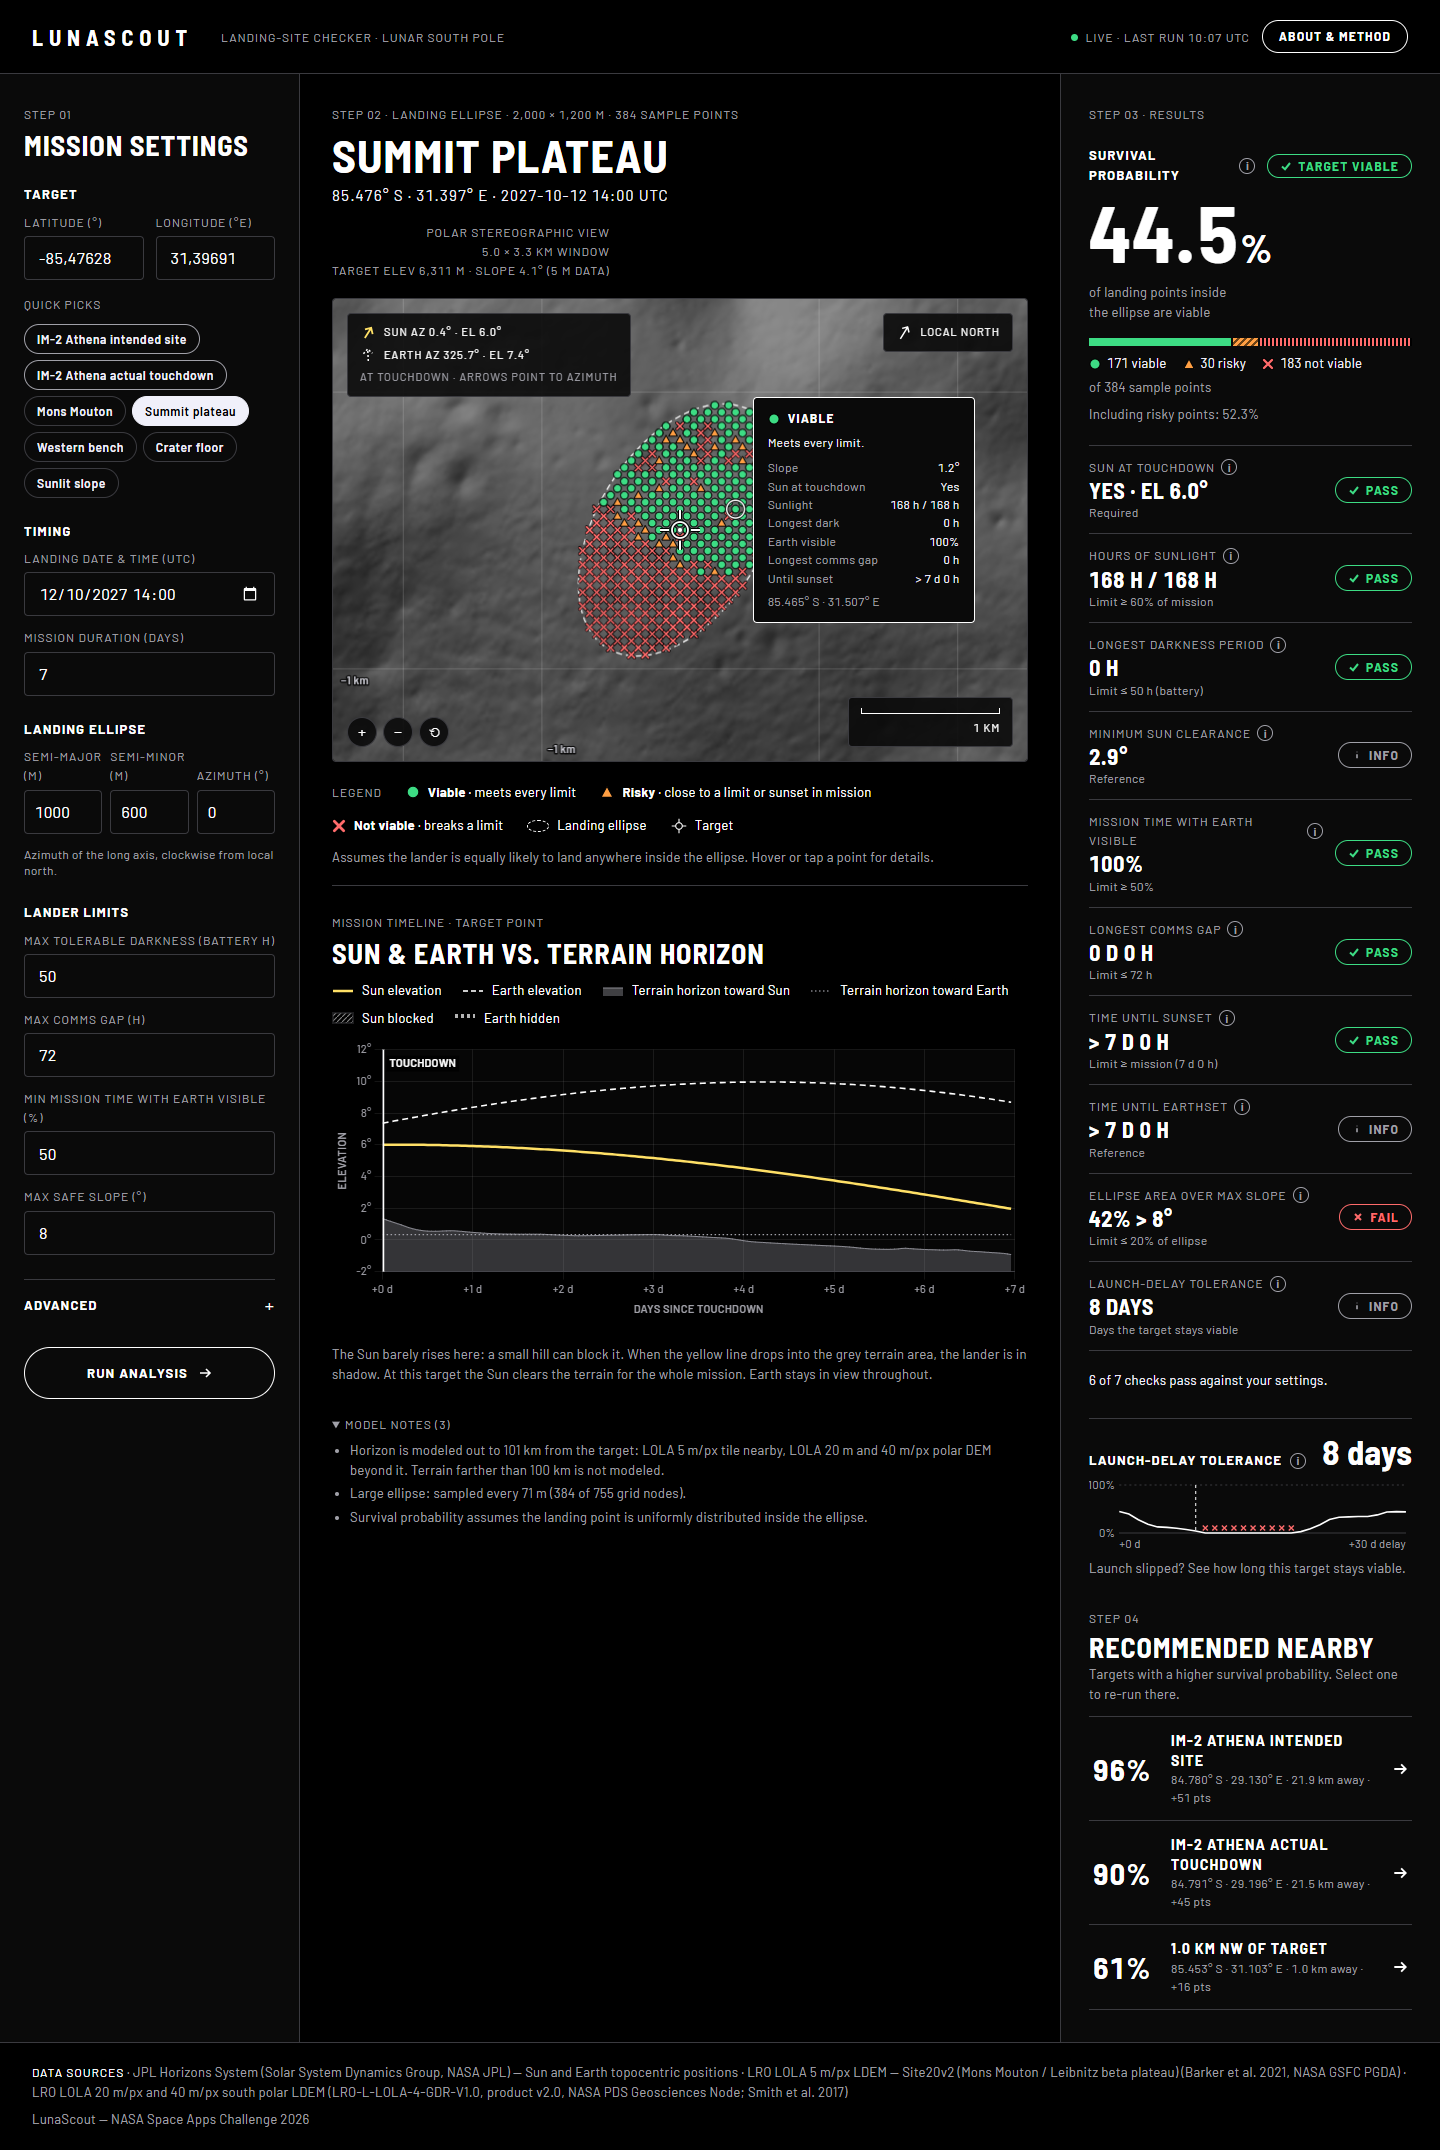
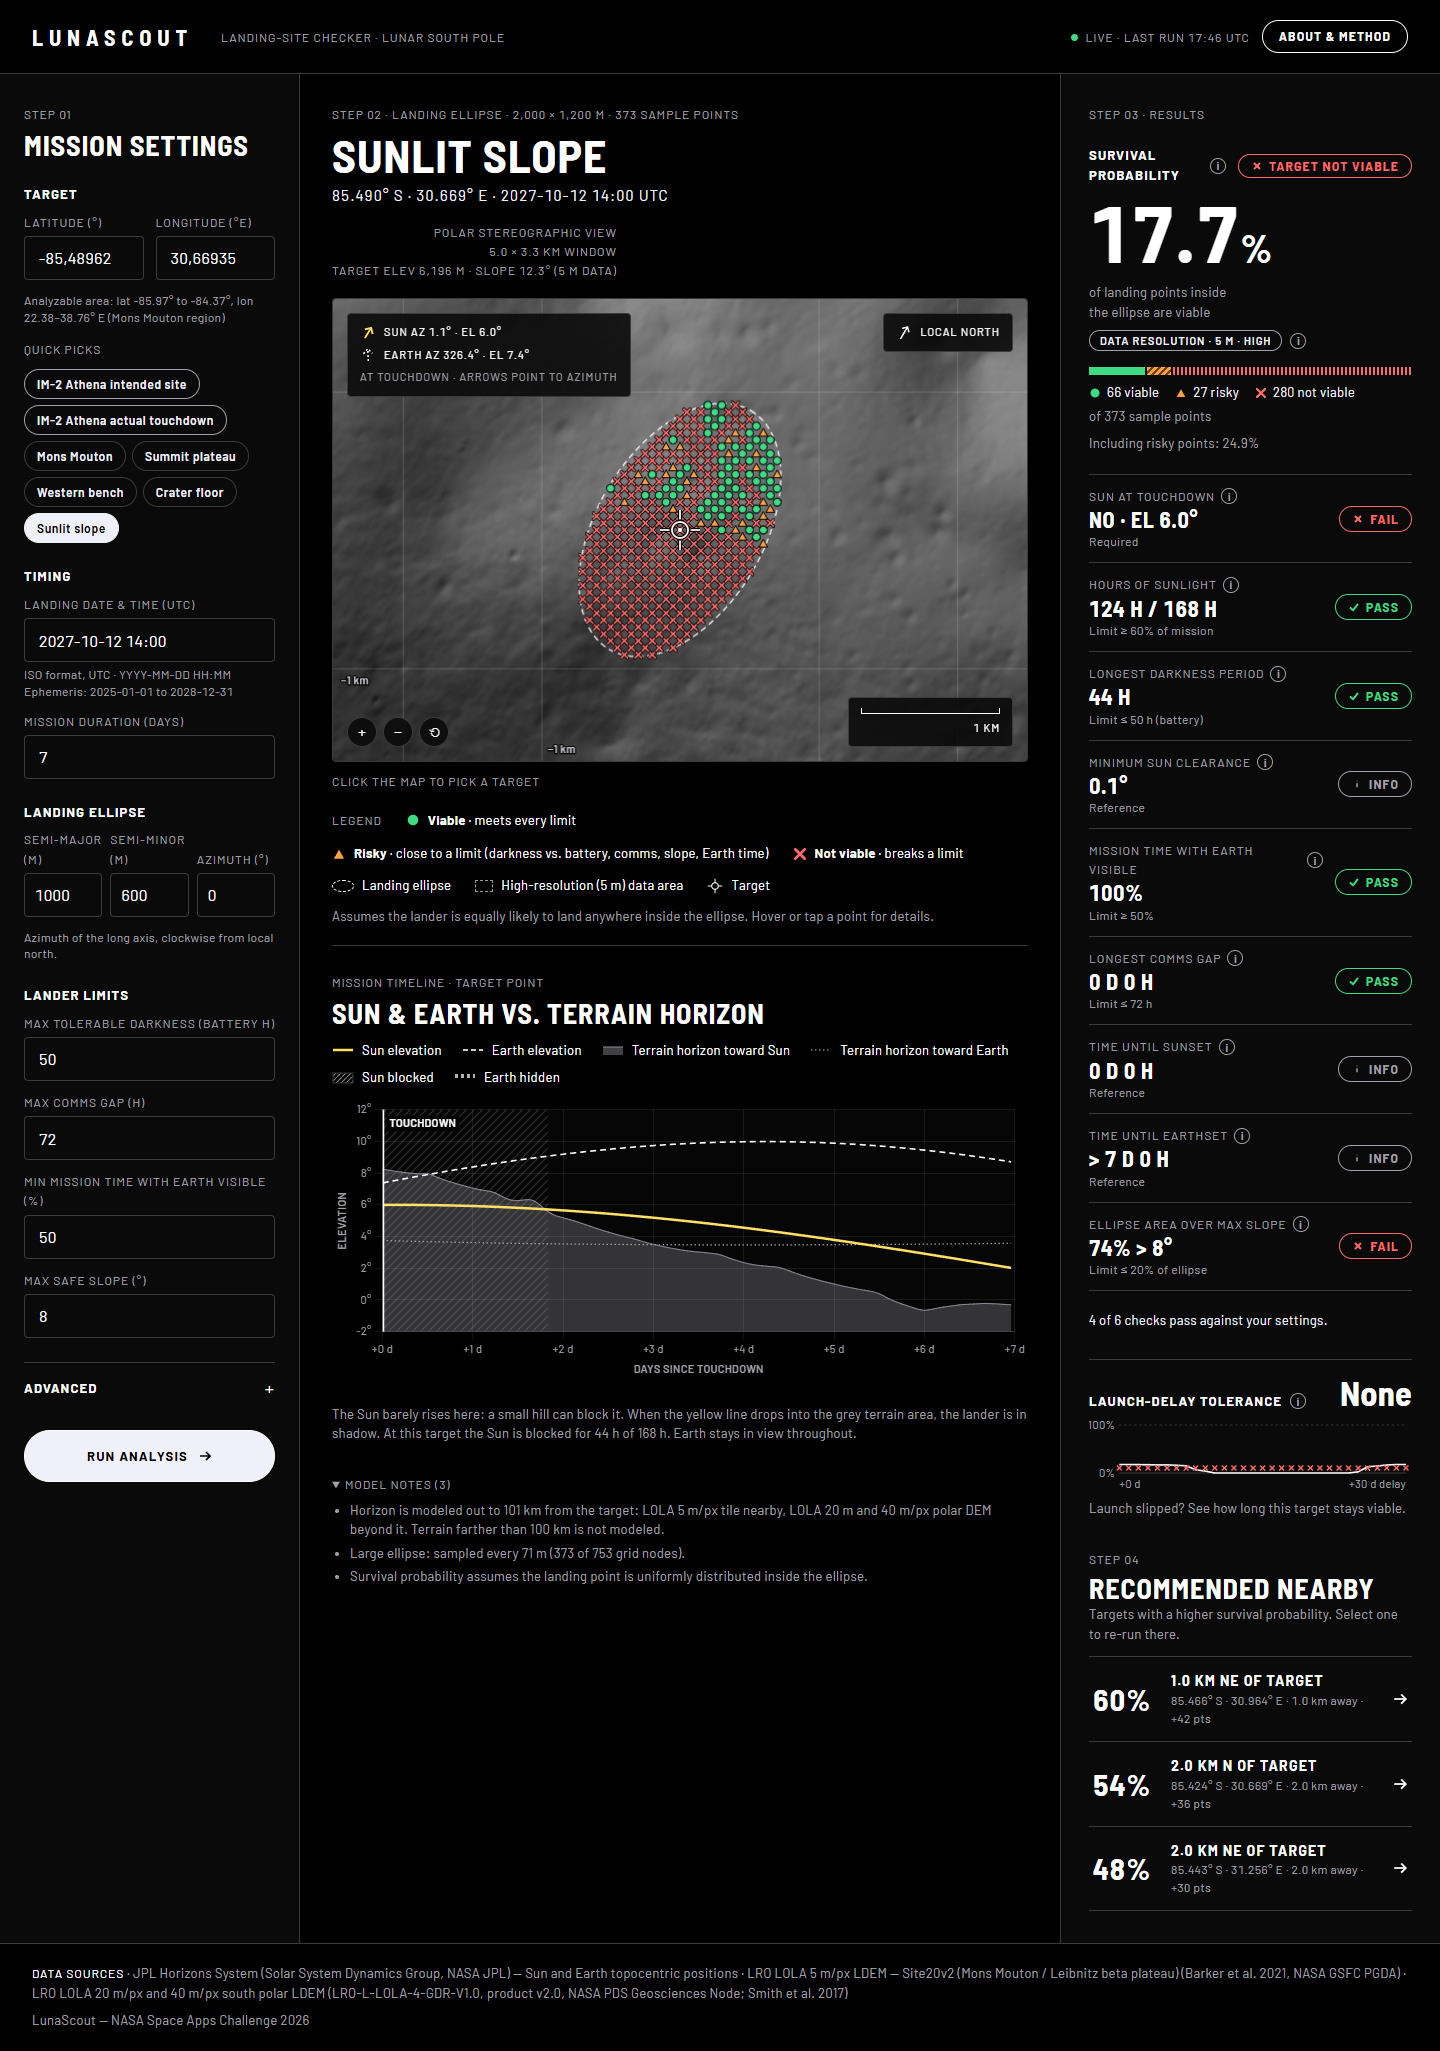
docs: fill in team name and members, replace README screenshot with a live run

diff --git a/docs/submission/video_script.md b/docs/submission/video_script.md
@@ -37,14 +37,14 @@ Word budget: **≈ 2.5 words/second → 75 words for 30 s**. This script uses **
 
 | # | Time | Visual | On-screen text (English) | Voice-over EN | Voice-over ES |
 |---|---|---|---|---|---|
-| 1 | 0:00–0:02 | Black title card, text fades in. No NASA logos. | **[TEAM NAME]** · ORT Uruguay · NASA Space Apps 2026 — *Lunar Landing Site Navigator* | *(none, 0 words)* | *(ninguna)* |
+| 1 | 0:00–0:02 | Black title card, text fades in. No NASA logos. | **CD Band** · ORT Uruguay · NASA Space Apps 2026 — *Lunar Landing Site Navigator* | *(none, 0 words)* | *(ninguna)* |
 | 2 | 0:02–0:05 | Slow zoom on a still of the south-pole terrain (our own hillshade from the app, not a NASA image). | **IM-2 "Athena" · March 2025** / A few hundred metres off target / Mission over within a day. Small print: *Hancock et al. 2026; SpacePolicyOnline* | "Athena landed off target. Mission over within a day." (9) | "Athena aterrizó desviada: misión terminada en un día." (8) |
 | 3 | 0:05–0:10 | Cut to the app's header, then the full screen. | **LunaScout** / *Plan for where you'll land, not where you aim.* | "LunaScout. Plan for where you'll land, not where you aim." (10) | "LunaScout. Planifica dónde aterrizarás, no hacia dónde apuntas." (8) |
 | 4a | 0:10–0:12 | Screen recording, 1080p: click quick pick **Sunlit slope**, press **Run analysis**. | Enter a target and a landing ellipse | "Enter a target and ellipse." (5) | "Elige un objetivo y una elipse." (6) |
 | 4b | 0:12–0:16 | The ellipse fills with green ● / amber ▲ / red ✕ points; hover one point to show its tooltip. | Every point, hour by hour | "LunaScout checks every point against real terrain and Sun and Earth positions." (12) | "LunaScout evalúa cada punto con relieve real y posiciones del Sol y la Tierra." (14) |
 | 4c | 0:16–0:18 | **Zoom** on the survival number and the timeline (Sun vs. horizon). | **Survival ≈ 18 %** `[read from screen]` | "Survival: 18 percent." (3) | "Supervivencia: 18 %." (2) |
 | 4d | 0:18–0:20 | Click the first recommended target; the map re-centres and the number jumps. | **1 km NE → ≈ 58 %** `[read from screen]` | "One kilometre northeast: 58 percent." (5) | "Un kilómetro al noreste: 58 %." (5) |
-| 5 | 0:20–0:30 | 0:20–0:23: launch-delay chart (delay tolerance). 0:23–0:27: data footer / About modal showing JPL Horizons + LOLA. 0:27–0:30: end card. | "Launch slips? Re-check in seconds." → "Built on NASA data: JPL Horizons · LRO LOLA" → end card: **LunaScout** · lunascout.web.app · **[TEAM NAME]** | "Launch slips? Re-check in seconds. Built on NASA data, LunaScout could help Artemis-era missions choose where, and when, to land." (20) | "¿La fecha se atrasa? Recalcula en segundos. Con datos de la NASA, LunaScout podría ayudar a misiones de la era Artemis a elegir dónde y cuándo aterrizar." (27) |
+| 5 | 0:20–0:30 | 0:20–0:23: launch-delay chart (delay tolerance). 0:23–0:27: data footer / About modal showing JPL Horizons + LOLA. 0:27–0:30: end card. | "Launch slips? Re-check in seconds." → "Built on NASA data: JPL Horizons · LRO LOLA" → end card: **LunaScout** · lunascout.web.app · **CD Band** | "Launch slips? Re-check in seconds. Built on NASA data, LunaScout could help Artemis-era missions choose where, and when, to land." (20) | "¿La fecha se atrasa? Recalcula en segundos. Con datos de la NASA, LunaScout podría ayudar a misiones de la era Artemis a elegir dónde y cuándo aterrizar." (27) |
 
 Notes on claims in the table:
 - "Mission over within a day": about 12 h (Hancock et al. 2026) to about 13 h (SpacePolicyOnline). "A few hundred metres": 250 m (IM) to about 500 m (Hancock); the sources disagree, so the video does not give one number.

diff --git a/docs/submission/checklist.md b/docs/submission/checklist.md
@@ -11,7 +11,7 @@ Tick each box only after you have checked it yourself.
 
 - [ ] All 4 members are **confirmed on the team at the same Local Event** (Space Apps profile → team page). `[TO VERIFY]` in the guide whether every member must confirm.
 - [ ] All required form fields are filled (project name, summary, demo link, final-project link, detailed description, SI use, NASA data, partner data/references). Text comes from `project_page.md`.
-- [ ] Every placeholder is replaced: `[TEAM NAME]`, `[NAME 1]`–`[NAME 4]`, `[DEMO LINK]`, and no `[TO VERIFY]` is left in anything submitted.
+- [ ] Every placeholder is replaced (`[DEMO LINK]` is the only one left) and no `[TO VERIFY]` is left in anything submitted. Team: CD Band.
 - [ ] The summary is about 150–200 words and the detailed description is 600–900 words (`project_page.md` has 199 and 892).
 - [ ] **Everything is in English** (form, README, slides, subtitles, UI). Only the video voice-over may be in Spanish.
 
@@ -47,7 +47,7 @@ Tick each box only after you have checked it yourself.
 - [ ] No sample or made-up data is shown as real. The only sample data is `fixtures/sample_response.json`, behind the **SAMPLE DATA — API OFFLINE** badge.
 - [ ] Athena wording is the validated one: *off target by a few hundred metres, tipped over in a ~20 m crater, mission ended about 12–13 h later.* **Never** "landed in shadow", "LunaScout would have predicted/saved Athena", or "validated against observations" (`docs/validation.md` §10).
 - [ ] Numbers used are only those in `docs/validation.md` §10, our own app output, or cited sources. Fonts, libraries and data sources are listed with licences/attribution.
-- [ ] README has the final screenshot (`docs/ui-desktop.png` is from an earlier build; retake it from the final deployment).
+- [ ] README screenshot (`docs/ui-desktop.png`, live run of 15 Nov 2026, 17.7 %) still matches the final deployment; retake it if the UI or numbers change.
 - [ ] Code licence decided and a `LICENSE` file added (MIT proposed).
 
 ## E. Submit

diff --git a/README.md b/README.md
@@ -12,8 +12,7 @@ Built for the NASA Space Apps Challenge 2026, challenge *Lunar Landing Site Navi
 - **Demo:** [DEMO LINK]
 - **Planning aid, not an operational tool.**
 
-<!-- Screenshot: docs/ui-desktop.png was taken on an earlier build (default ellipse 2,000 x 1,200 m). Retake from the final deployment before submitting. -->
-![LunaScout main screen: mission settings, landing ellipse on the Mons Mouton hillshade with viable/risky/not-viable points, survival probability and timeline](docs/ui-desktop.png)
+![LunaScout main screen, live run of the Sunlit slope quick pick (2027-10-12): landing ellipse with viable/risky/not-viable points, survival probability 17.7 %, timeline and recommended nearby targets](docs/ui-desktop.png)
 
 ## Why the whole ellipse
 
@@ -126,7 +125,7 @@ The team came up with the idea and defined the problem, the requirements and the
 
 ## Team
 
-**[TEAM NAME]** — Systems Engineering students, ORT Uruguay: [NAME 1], [NAME 2], [NAME 3], [NAME 4].
+**CD Band** — Systems Engineering students, ORT Uruguay: Lautaro Montes, Agustin Guerequiz, Francisco Castelli, Sebastián Luciardi.
 
 ## License
 

diff --git a/docs/submission/project_page.md b/docs/submission/project_page.md
@@ -1,7 +1,7 @@
 <!-- Developed with assistance from Claude (Anthropic). Reviewed and integrated by the LunaScout team. (Delete this line when pasting into the form.) -->
 # LunaScout — Space Apps project page (paste-ready)
 
-Challenge: **Lunar Landing Site Navigator** · Team: **[TEAM NAME]** · Members: [NAME 1], [NAME 2], [NAME 3], [NAME 4] (Systems Engineering, ORT Uruguay)
+Challenge: **Lunar Landing Site Navigator** · Team: **CD Band** · Members: Lautaro Montes, Agustin Guerequiz, Francisco Castelli, Sebastián Luciardi (Systems Engineering, ORT Uruguay)
 
 Every field of the project form is below. Text inside a code block is what to paste. Items marked `[TO VERIFY]` must be confirmed by the team before the final submission.
 

diff --git a/docs/submission/slides_outline.md b/docs/submission/slides_outline.md
@@ -12,7 +12,7 @@ Numbers marked `[TO VERIFY]` must be read from the live app / `docs/validation.m
 ### Slide 1 — Title
 **Text (21 words):**
 LunaScout. Plan where you'll land.
-Team [TEAM NAME]: [NAME 1], [NAME 2], [NAME 3], [NAME 4].
+Team CD Band: Lautaro Montes, Agustin Guerequiz, Francisco Castelli, Sebastián Luciardi.
 Challenge: Lunar Landing Site Navigator.
 **Visual:** full-bleed crop of the app's polar-stereographic hillshade with the green/amber/red ellipse glowing in the centre; wordmark "LUNASCOUT" top-left (text only, no logo from NASA).
 
